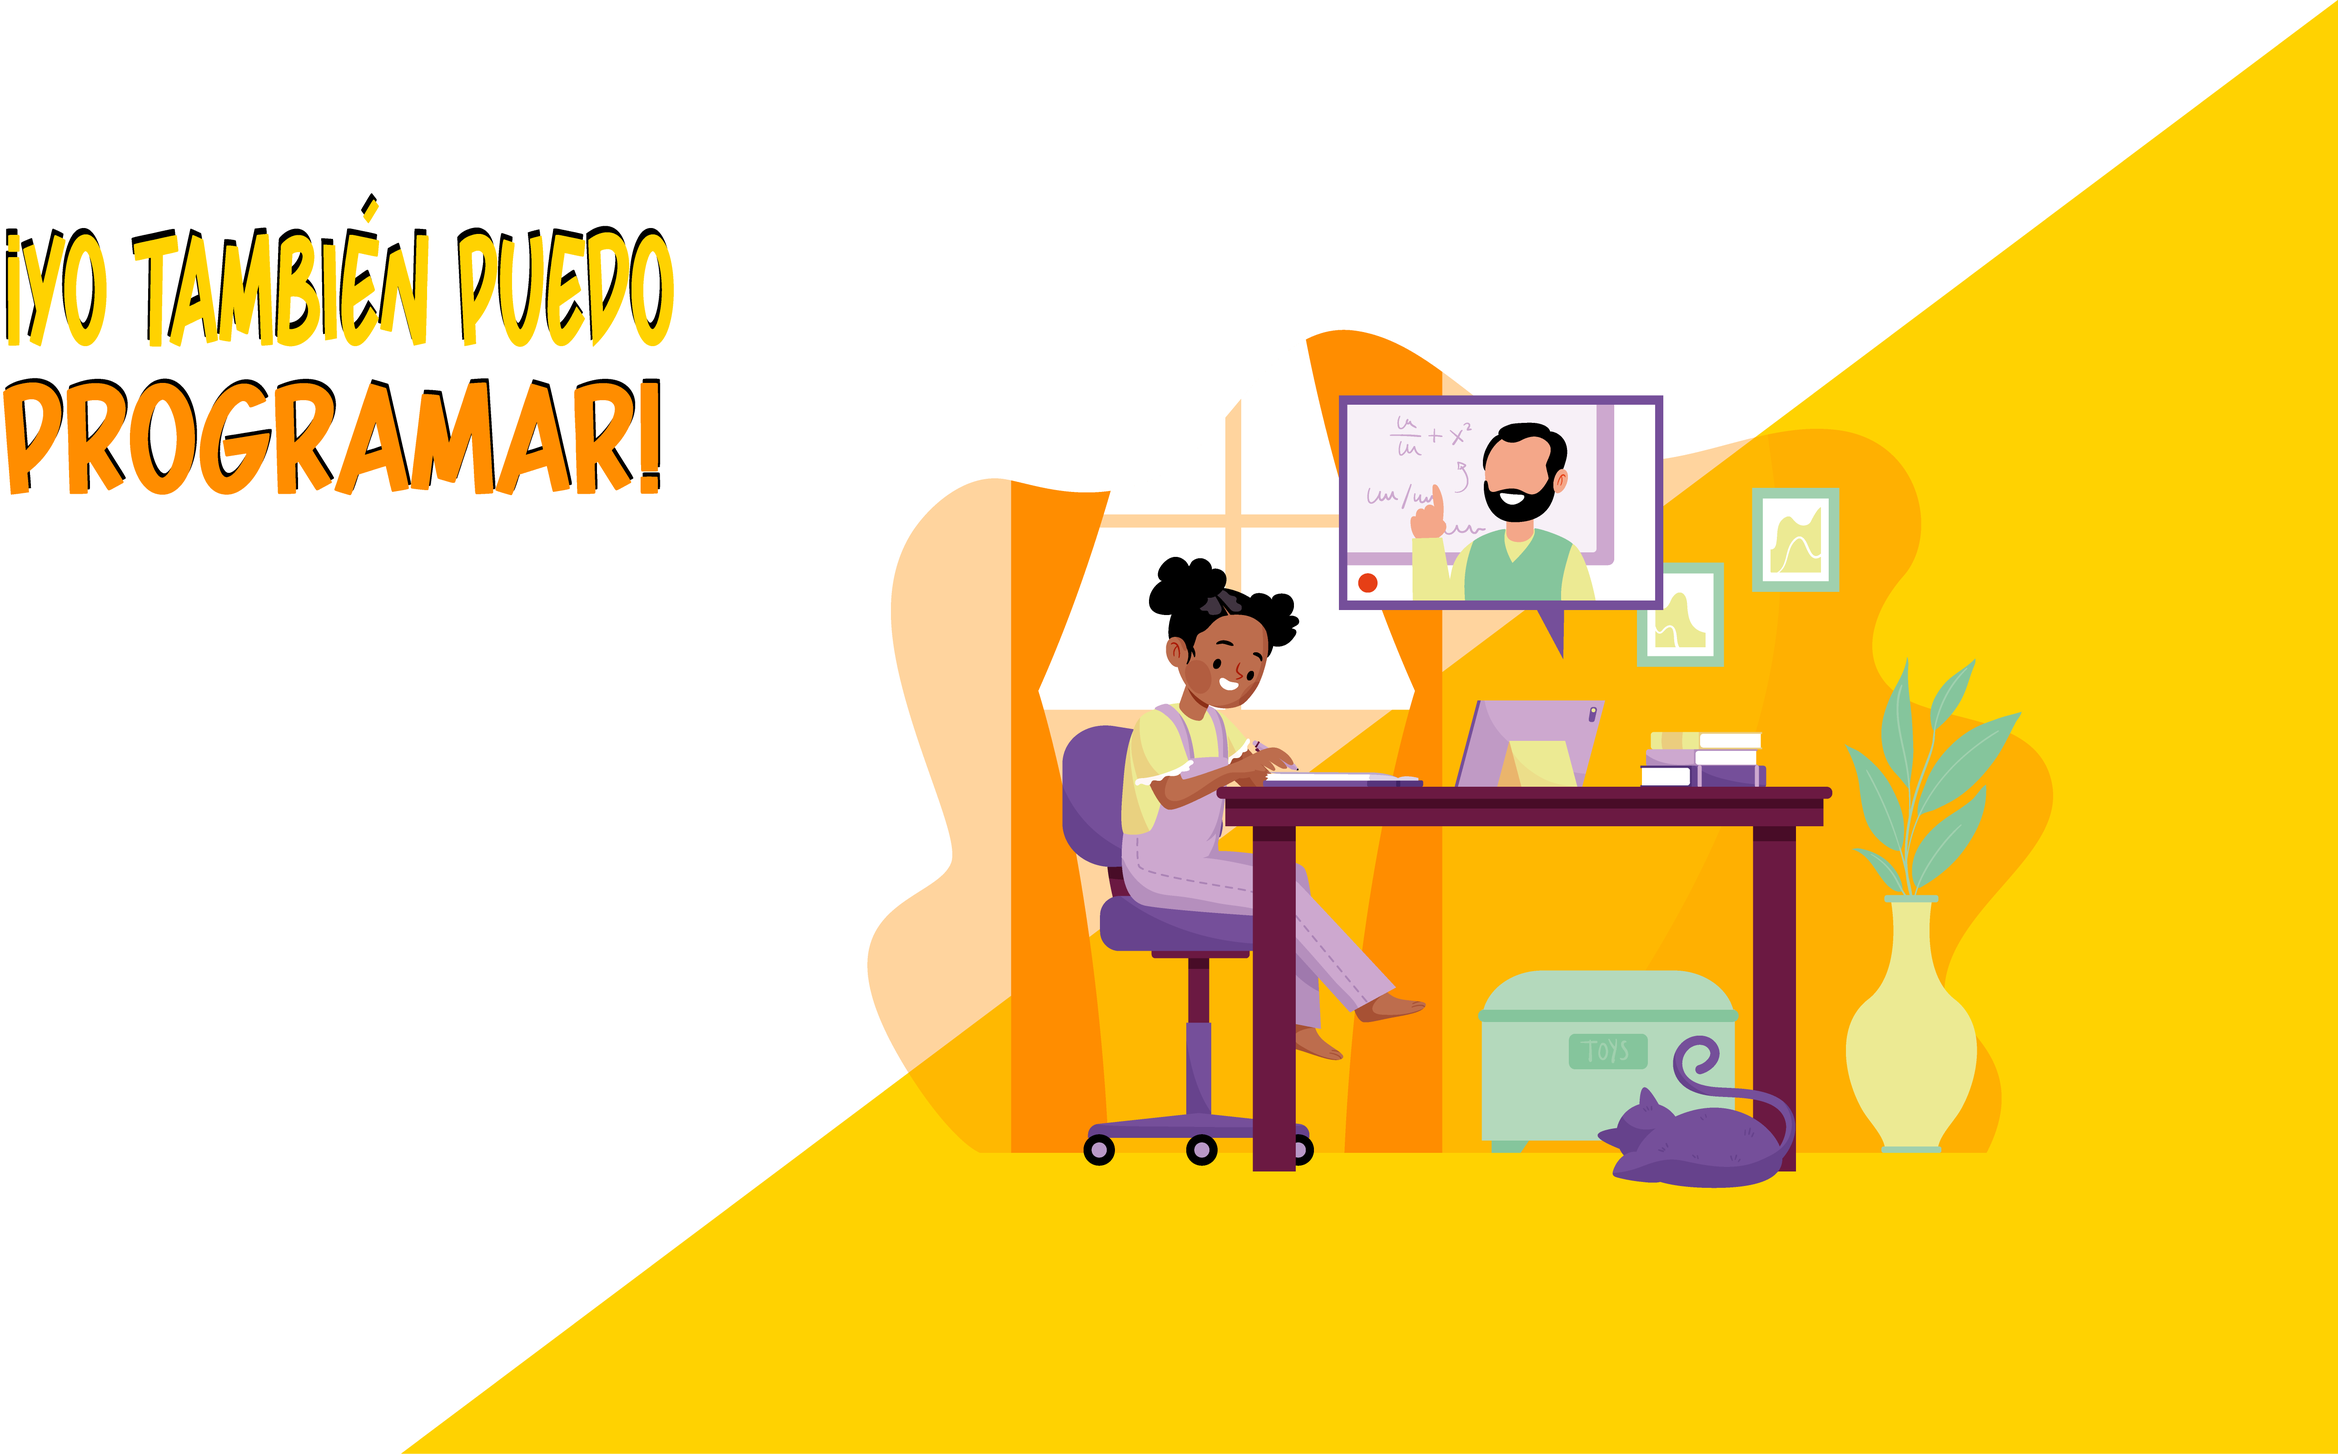
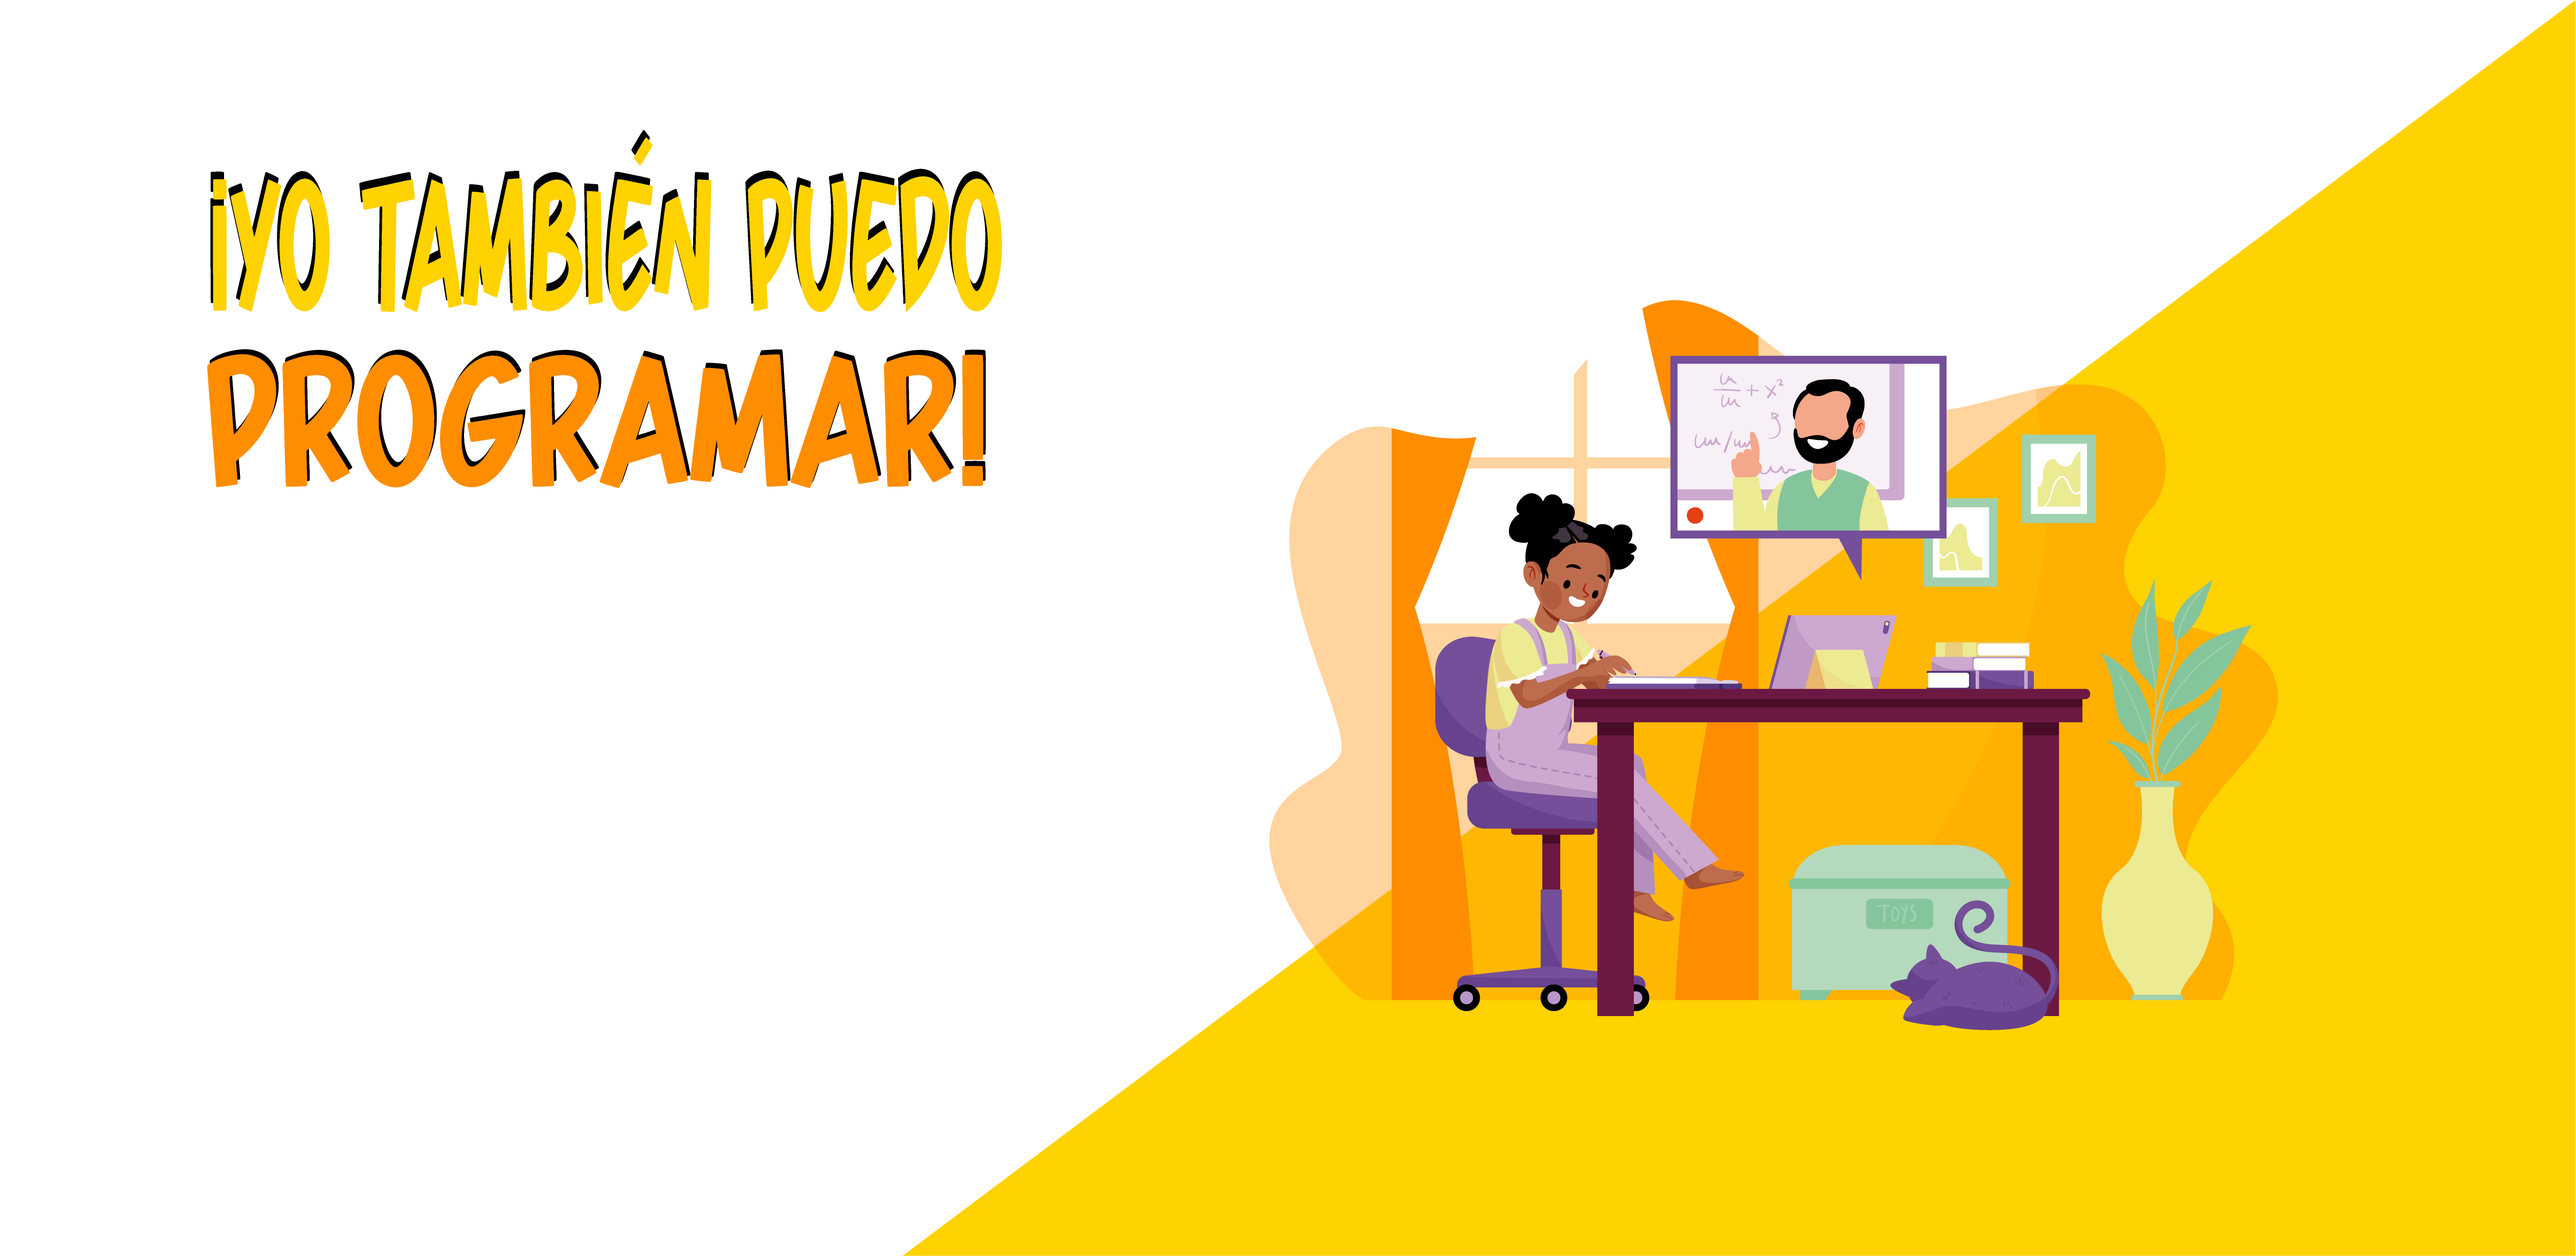
background landing

Changed region(s): [[0.0, 0.0933, 0.9328, 1.0], [0.9328, 0.0311, 0.9949, 0.0933]]

diff --git a/client/src/components/LandingPage/LandingPage.module.css b/client/src/components/LandingPage/LandingPage.module.css
@@ -8,17 +8,16 @@
   height: 100vh;
 }
 .background {
- background: url("./landing.png"); 
+/*  background: url("./landing.png");  */
   background-repeat: no-repeat;
   background-position: center;
-  background-size: 100vw;
+  background-size: cover;
   width: 100vw;
 
 }
 
 .btn{
-  margin-top: 50vh;
-  /* background-color: black; */
+  background-color: var(--amarillo);
 }
 
 .btn:hover{
